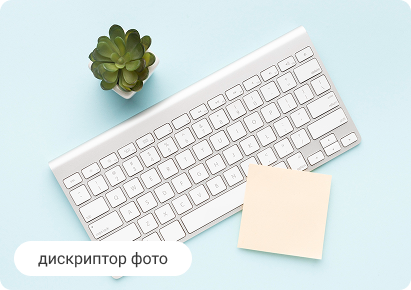
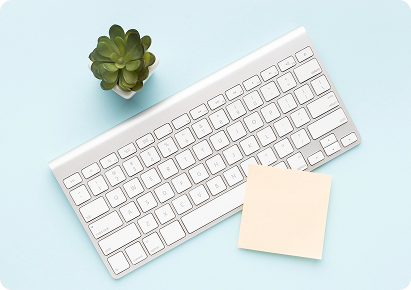
refactor: article page and blog card

Changed region(s): [[0.0292, 0.8069, 0.4672, 0.9621]]

diff --git a/src/components/shared/article-card/article-card.tsx b/src/components/shared/article-card/article-card.tsx
@@ -65,13 +65,18 @@ export default function ArticleCard({ article }: { article: BlogCard }) {
                 </Typography>
                 <Typography variant="p2">{article.textSubArticle}</Typography>
               </div>
-              <Media
-                className="h-[clamp(105px,20vw,290px)] w-full max-w-[clamp(304px,90vw,842px)]"
-                image={{
-                  src: article.imageArticleSection.src,
-                  alt: article.imageArticleSection.alt,
-                }}
-              />
+              <div className="relative">
+                <Media
+                  className="h-[clamp(105px,20vw,290px)] w-full max-w-[clamp(304px,90vw,842px)]"
+                  image={{
+                    src: article.imageArticleSection.src,
+                    alt: article.imageArticleSection.alt,
+                  }}
+                />
+                <div className="flex-center font-second-family absolute bottom-[14px] left-[14px] max-h-[35px] rounded-full bg-white px-[12px] py-[8px] text-[12px] sm:px-[24px] sm:py-[12px] sm:text-[16px]">
+                  {article.image?.alt}
+                </div>
+              </div>
               <div className="flex flex-col gap-[clamp(8px,1.5vw,16px)]">
                 <Typography
                   className="scroll-mt-[120px]"
@@ -85,20 +90,31 @@ export default function ArticleCard({ article }: { article: BlogCard }) {
                 <Typography variant="p2">{article.textStageWork}</Typography>
               </div>
               <div className="flex flex-col gap-[clamp(12px,2vw,20px)] sm:flex-row">
-                <Media
-                  className="h-[clamp(214px,30vw,290px)] w-[clamp(304px,45vw,411px)]"
-                  image={{
-                    src: article.imageArticleStageWork.src,
-                    alt: article.imageArticleStageWork.alt,
-                  }}
-                />
-                <Media
-                  className="h-[clamp(214px,30vw,290px)] w-[clamp(304px,45vw,411px)]"
-                  image={{
-                    src: article.imageArticleStageWork.src,
-                    alt: article.imageArticleStageWork.alt,
-                  }}
-                />
+                <div className="relative">
+                  <Media
+                    className="h-[clamp(214px,30vw,290px)] w-[clamp(304px,45vw,411px)]"
+                    image={{
+                      src: article.imageArticleStageWork.src,
+                      alt: article.imageArticleStageWork.alt,
+                    }}
+                  />
+                  <div className="flex-center font-second-family absolute bottom-[14px] left-[14px] max-h-[clamp(28px,3.2vw,35px)] rounded-full bg-white px-[clamp(12px,2vw,24px)] py-[clamp(8px,1.2vw,12px)] text-[clamp(12px,1.3vw,16px)] leading-[100%] whitespace-nowrap">
+                    {article.image?.alt}
+                  </div>
+                </div>
+
+                <div className="relative">
+                  <Media
+                    className="h-[clamp(214px,30vw,290px)] w-[clamp(304px,45vw,411px)]"
+                    image={{
+                      src: article.imageArticleStageWork.src,
+                      alt: article.imageArticleStageWork.alt,
+                    }}
+                  />
+                  <div className="flex-center font-second-family absolute bottom-[14px] left-[14px] max-h-[clamp(28px,3.2vw,35px)] rounded-full bg-white px-[clamp(12px,2vw,24px)] py-[clamp(8px,1.2vw,12px)] text-[clamp(12px,1.3vw,16px)] leading-[100%] whitespace-nowrap">
+                    {article.image?.alt}
+                  </div>
+                </div>
               </div>
               <div className="flex flex-col gap-[clamp(8px,1.5vw,16px)]">
                 <Typography

diff --git a/src/components/shared/blog-block/blog-card-mobile.tsx b/src/components/shared/blog-block/blog-card-mobile.tsx
@@ -1,16 +1,29 @@
 import Link from 'next/link';
 
+import { cn } from '@/lib/utils';
+
 import { Media } from '@/components/ui/media';
 import Typography from '@/components/ui/typography/typography';
 
 import { BlogCard as TBlogCard } from './blog-config';
 
-export default function BlogCardMobile({ card }: { card: TBlogCard }) {
+export default function BlogCardMobile({
+  card,
+  className,
+}: {
+  card: TBlogCard;
+  className?: string;
+}) {
   return (
-    <div className="z-10 flex h-[clamp(293px,28vw,380px)] w-[clamp(332px,30vw,435px)] flex-col justify-between rounded-[24px] bg-white p-[14px] sm:p-[24px]">
+    <div
+      className={cn(
+        'z-10 flex min-h-[clamp(293px,28vw,380px)] w-[clamp(332px,30vw,435px)] flex-col justify-between gap-3 rounded-[24px] bg-white p-[clamp(14px,3vw,24px)]',
+        className
+      )}
+    >
       {card.image && (
         <Media
-          className="h-[clamp(129px,20vw,165px)] w-[clamp(304px,55vw,387px)]"
+          className="h-[clamp(129px,20vw,165px)] w-full max-w-full"
           image={{ src: card.image.src, alt: card.image.alt }}
         />
       )}
@@ -19,7 +32,7 @@ export default function BlogCardMobile({ card }: { card: TBlogCard }) {
           {card.title}
         </Typography>
         <Link
-          className="flex-center bg-primary h-[clamp(32px,3vw,42px)] w-[clamp(32px,3vw,42px)] shrink-0 rounded-full"
+          className="flex-center bg-primary h-[clamp(36px,3vw,42px)] w-[clamp(36px,3vw,42px)] shrink-0 rounded-full"
           href={card.href || '/'}
         >
           <Media

diff --git a/src/components/shared/you-maybe-interesting-block/you-maybe-interesting-block.tsx b/src/components/shared/you-maybe-interesting-block/you-maybe-interesting-block.tsx
@@ -14,11 +14,9 @@ export default function YouMaybeInterestingBlock() {
 
   return (
     <Section className="gap-[24px] pb-[clamp(86px,10vw,148px)] sm:gap-[36px]">
-      <div className="flex w-full max-w-[1194px] justify-start">
-        <Typography variant="h2">
-          <b className="text-primary">Вам</b> может быть интересно
-        </Typography>
-      </div>
+      <Typography className="flex w-full max-w-[1194px] px-4" variant="h2">
+        <b className="text-primary">Вам</b> может быть интересно
+      </Typography>
       <ul
         className="no-scrollbar flex w-full max-w-[1194px] cursor-grab snap-x snap-mandatory scroll-px-4 justify-start gap-[4px] overflow-x-scroll overflow-y-hidden px-4 select-none active:cursor-grabbing sm:cursor-auto sm:scroll-px-0 sm:gap-[20px] sm:overflow-hidden sm:px-0 sm:active:cursor-auto"
         onClickCapture={(e) => {

diff --git a/src/components/shared/blog-block/blog-card.tsx b/src/components/shared/blog-block/blog-card.tsx
@@ -17,7 +17,7 @@ export default function BlogCard({ card, className }: { card: TBlogCard; classNa
     >
       {card.image && (
         <Media
-          className="block h-[clamp(129px,20vw,165px)] w-[clamp(304px,55vw,387px)] sm:hidden"
+          className="block h-[clamp(129px,20vw,165px)] w-full max-w-full sm:hidden"
           image={{ src: card.image.src, alt: card.image.alt }}
         />
       )}
@@ -46,7 +46,7 @@ export default function BlogCard({ card, className }: { card: TBlogCard; classNa
 
       {card.image && (
         <Media
-          className="hidden h-[clamp(129px,20vw,165px)] w-full min-w-[clamp(304px,55vw,387px)] sm:block"
+          className="hidden h-[clamp(129px,20vw,165px)] w-full max-w-full sm:block"
           image={{ src: card.image.src, alt: card.image.alt }}
         />
       )}

diff --git a/src/components/shared/blog-block/blog-block.tsx b/src/components/shared/blog-block/blog-block.tsx
@@ -11,7 +11,7 @@ import BlogCardMobile from './blog-card-mobile';
 import { BLOG_CONFIG } from './blog-config';
 import BlogPagination from './blog-pagination';
 
-// TODO: 1) добавить дискриптор фото на article, сделать фиксированный aside, на BlogCard картинка вылазиет за контейнер, изменять размеры карточек в карусели blogPage
+// TODO: изменять размеры карточек в карусели blogPage
 export default function BlogBlock() {
   const [page, setPage] = useState(0);
 

diff --git a/src/components/shared/article-card/article-aside.tsx b/src/components/shared/article-card/article-aside.tsx
@@ -1,3 +1,4 @@
+'use client';
 import { RefObject, useMemo } from 'react';
 
 import Typography from '@/components/ui/typography/typography';
@@ -5,6 +6,7 @@ import Typography from '@/components/ui/typography/typography';
 import { BlogCard } from '../blog-block/blog-config';
 
 type SectionId = 'title' | 'subtitle' | 'stage1' | 'stage2';
+
 export default function ArticleAside({
   article,
   sectionRefs,
